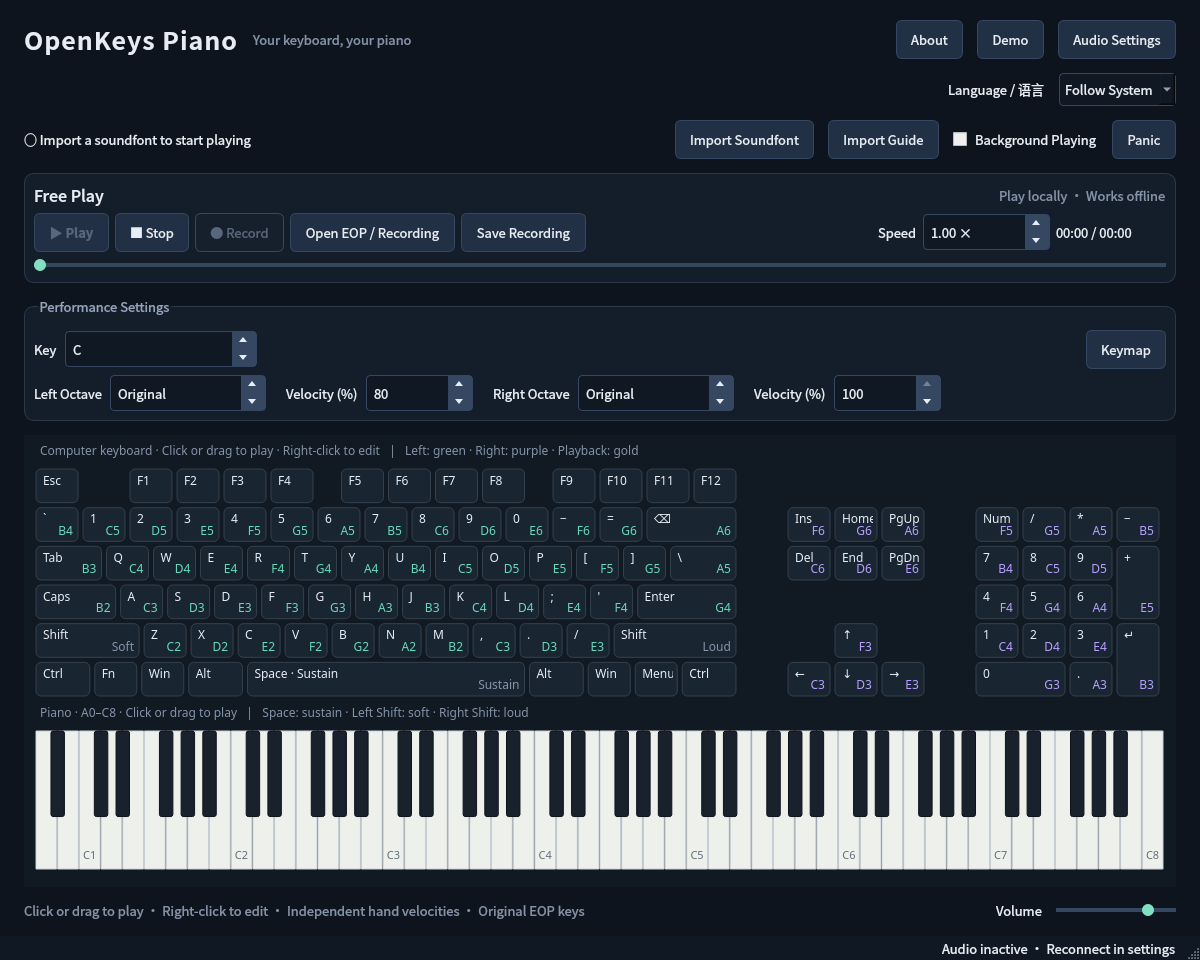
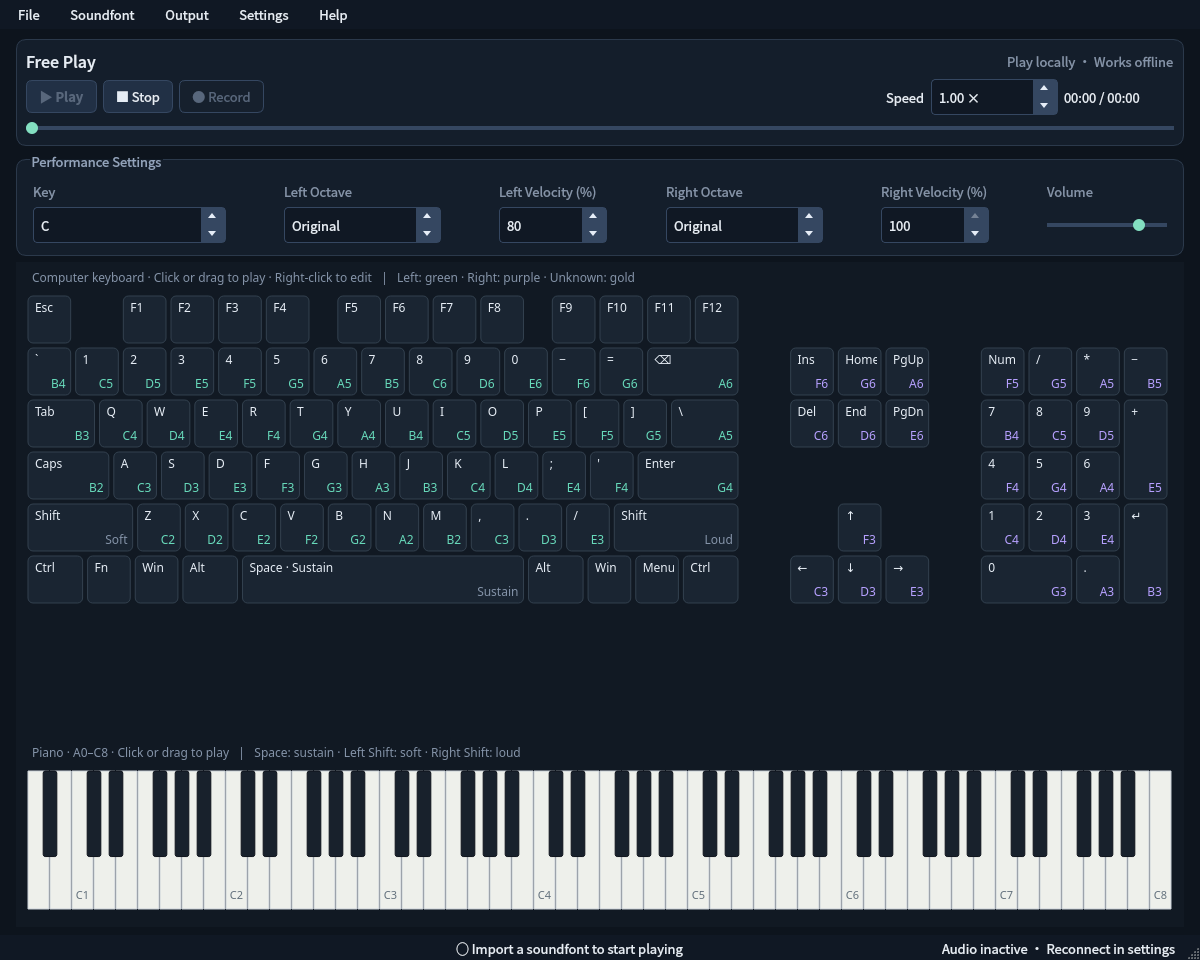
Arrange performance settings in an evenly spaced single row

diff --git a/translations/openkeys_zh_CN.ts b/translations/openkeys_zh_CN.ts
@@ -276,8 +276,12 @@
     </message>
     <message>
         <location filename="../src/ui/main_window.cpp" line="610"/>
-        <source>Velocity (%)</source>
-        <translation>力度（%）</translation>
+        <source>Left Velocity (%)</source>
+        <translation>左手力度（%）</translation>
+    </message>
+    <message>
+        <source>Right Velocity (%)</source>
+        <translation>右手力度（%）</translation>
     </message>
     <message>
         <location filename="../src/ui/main_window.cpp" line="624"/>

diff --git a/src/ui/main_window.cpp b/src/ui/main_window.cpp
@@ -613,39 +613,44 @@ void MainWindow::buildUi() {
     });
     connect(save, &QAction::triggered, this, [this] { saveSong(); });
     connect(speed_, &QDoubleSpinBox::valueChanged, this, [this](double value) { audio_.setSpeed(value); });
-    auto *performance = new QHBoxLayout;
-    auto *keyGroup = new QGroupBox(QCoreApplication::translate("OpenKeys", "Performance Settings"));
-    auto *keyRow = new QGridLayout(keyGroup);
-    keyRow->setHorizontalSpacing(12);
-    keyRow->setColumnStretch(3, 1);
-    const auto field = [](const QString &name, QWidget *control) {
-        auto *group = new QWidget;
-        auto *layout = new QHBoxLayout(group);
+    auto *keyGroup = new QGroupBox(QCoreApplication::translate("OpenKeys", "Performance Settings"), central);
+    auto *keyRow = new QHBoxLayout(keyGroup);
+    keyRow->setContentsMargins(16, 12, 16, 12);
+    keyRow->setSpacing(12);
+    const auto addField = [keyRow](const QString &name, QWidget *control) {
+        auto *group = new QWidget(keyRow->parentWidget());
+        auto *layout = new QVBoxLayout(group);
         layout->setContentsMargins(0, 0, 0, 0);
-        layout->setSpacing(8);
+        layout->setSpacing(6);
         layout->setSizeConstraint(QLayout::SetFixedSize);
-        layout->addWidget(new QLabel(name));
-        control->setFixedWidth(control->sizeHint().width());
+        auto *label = new QLabel(name);
+        label->setObjectName("muted");
+        layout->addWidget(label);
         layout->addWidget(control);
-        return group;
+        control->ensurePolished();
+        control->setFixedWidth(std::max(control->minimumWidth(), control->sizeHint().width()));
+        if (keyRow->count() > 0)
+            keyRow->addStretch();
+        keyRow->addWidget(group, 0, Qt::AlignTop);
     };
     keyGroup->setToolTip(QCoreApplication::translate(
         "OpenKeys",
         "Key and octave changes affect new live notes only. Playback uses the pitches in the file."));
     auto *transpose = performanceSpin(-12, 12, keyboard_.keymap.transpose, PerformanceSpin::Key);
     transpose->setObjectName("transpose");
-    keyRow->addWidget(field(QCoreApplication::translate("OpenKeys", "Key"), transpose), 0, 0);
+    addField(QCoreApplication::translate("OpenKeys", "Key"), transpose);
     for (int hand = 0; hand < 2; ++hand) {
         auto *octave = performanceSpin(-3, 3, keyboard_.keymap.octave[size_t(hand)], PerformanceSpin::Octave);
         octave->setObjectName(hand == 0 ? "leftOctave" : "rightOctave");
-        keyRow->addWidget(field(hand == 0 ? QCoreApplication::translate("OpenKeys", "Left Octave")
-                                          : QCoreApplication::translate("OpenKeys", "Right Octave"),
-                                octave),
-                          hand, 1);
+        addField(hand == 0 ? QCoreApplication::translate("OpenKeys", "Left Octave")
+                           : QCoreApplication::translate("OpenKeys", "Right Octave"),
+                 octave);
         auto *velocity = performanceSpin(0, 100, velocityPercent(keyboard_.keymap.velocity[size_t(hand)]),
                                          PerformanceSpin::Number);
         velocity->setObjectName(hand == 0 ? "leftVelocity" : "rightVelocity");
-        keyRow->addWidget(field(QCoreApplication::translate("OpenKeys", "Velocity (%)"), velocity), hand, 2);
+        addField(hand == 0 ? QCoreApplication::translate("OpenKeys", "Left Velocity (%)")
+                           : QCoreApplication::translate("OpenKeys", "Right Velocity (%)"),
+                 velocity);
         connect(octave, &QSpinBox::valueChanged, this, [this, hand](int value) {
             keyboard_.keymap.octave[size_t(hand)] = value;
             updateProfile();
@@ -659,8 +664,19 @@ void MainWindow::buildUi() {
         keyboard_.keymap.transpose = value;
         updateProfile();
     });
-    performance->addWidget(keyGroup, 1);
-    root->addLayout(performance);
+    auto *volume = new QSlider(Qt::Horizontal);
+    volume->setObjectName("masterVolume");
+    volume->setRange(0, 100);
+    volume->setValue(settings_.value("volume", 80).toInt());
+    volume->setFixedWidth(120);
+    volume->setFixedHeight(transpose->sizeHint().height());
+    volume->setToolTip(QCoreApplication::translate("OpenKeys", "Master volume"));
+    addField(QCoreApplication::translate("OpenKeys", "Volume"), volume);
+    connect(volume, &QSlider::valueChanged, this, [this](int value) {
+        audio_.setVolume(value / 100.);
+        settings_.setValue("volume", value);
+    });
+    root->addWidget(keyGroup);
     view_ = new KeyboardView;
     view_->setObjectName("keyboardView");
     view_->map = keyboard_.keymap;
@@ -681,16 +697,6 @@ void MainWindow::buildUi() {
         dispatchLive(Event{0, down ? Kind::NoteOn : Kind::NoteOff, uint8_t(note), uint8_t(down ? 100 : 0),
                            Hand::Right, 0, 0});
     };
-    auto *volume = new QSlider(Qt::Horizontal);
-    volume->setRange(0, 100);
-    volume->setValue(settings_.value("volume", 80).toInt());
-    volume->setFixedWidth(120);
-    volume->setToolTip(QCoreApplication::translate("OpenKeys", "Master volume"));
-    keyRow->addWidget(field(QCoreApplication::translate("OpenKeys", "Volume"), volume), 1, 0);
-    connect(volume, &QSlider::valueChanged, this, [this](int value) {
-        audio_.setVolume(value / 100.);
-        settings_.setValue("volume", value);
-    });
     deviceLabel_ = new QLabel(QCoreApplication::translate("OpenKeys", "Audio has not started"));
     statusBar()->addPermanentWidget(deviceLabel_);
 }

diff --git a/tests/ui_tests.cpp b/tests/ui_tests.cpp
@@ -405,6 +405,56 @@ class UiTests : public QObject {
         scroll->verticalScrollBar()->setValue(scroll->verticalScrollBar()->maximum());
         QVERIFY(window.view_->visibleRegion().boundingRect().height() > 0);
     }
+    void performanceLayout_data() {
+        compactMenus_data();
+    }
+    void performanceLayout() {
+        QFETCH(QString, locale);
+        QVERIFY(language_.load(locale));
+        MainWindow window(true);
+        window.show();
+        auto *scroll = qobject_cast<QScrollArea *>(window.centralWidget());
+        QVERIFY(scroll);
+        auto *volume = window.findChild<QSlider *>("masterVolume");
+        QVERIFY(volume);
+        QVERIFY(volume->width() >= 120);
+        for (const int width : {980, 1200, 1600}) {
+            window.resize(width, 760);
+            QApplication::processEvents();
+            QCOMPARE(scroll->horizontalScrollBar()->maximum(), 0);
+            QRect previous;
+            int previousFieldRight = 0;
+            int firstGap = -1;
+            for (const auto *name : {"transpose", "leftOctave", "leftVelocity", "rightOctave",
+                                     "rightVelocity", "masterVolume"}) {
+                auto *control = window.findChild<QWidget *>(QLatin1String(name));
+                QVERIFY(control);
+                auto *field = control->parentWidget();
+                auto *label = field->findChild<QLabel *>();
+                QVERIFY(label);
+                QVERIFY(label->width() >= label->sizeHint().width());
+                QVERIFY(label->geometry().bottom() < control->geometry().top());
+                QVERIFY2(control->width() >= control->sizeHint().width(),
+                         qPrintable(QString("%1: width %2, size hint %3")
+                                        .arg(QLatin1String(name))
+                                        .arg(control->width())
+                                        .arg(control->sizeHint().width())));
+                const QRect rect(control->mapTo(scroll->widget(), QPoint()), control->size());
+                if (!previous.isNull()) {
+                    QCOMPARE(rect.top(), previous.top());
+                    QCOMPARE(rect.height(), previous.height());
+                    // Fields can have different content widths, but their gaps must be uniform.
+                    const int gap = field->geometry().left() - previousFieldRight - 1;
+                    QVERIFY(gap >= 12);
+                    if (firstGap < 0)
+                        firstGap = gap;
+                    QVERIFY(std::abs(gap - firstGap) <= 1);
+                }
+                previous = rect;
+                previousFieldRight = field->geometry().right();
+            }
+        }
+    }
     void startupDefaults() {
         const auto directory = QStandardPaths::writableLocation(QStandardPaths::AppConfigLocation);
         QVERIFY(QDir().mkpath(directory));

diff --git a/src/main.cpp b/src/main.cpp
@@ -91,6 +91,8 @@ int main(int argc, char **argv) {
         }
     }
     piano::MainWindow window(diagnostic);
+    if (parser.isSet("screenshot"))
+        window.resize(1200, 960);
     window.show();
     if (parser.isSet("soundfont"))
         window.loadFont(parser.value("soundfont"));
